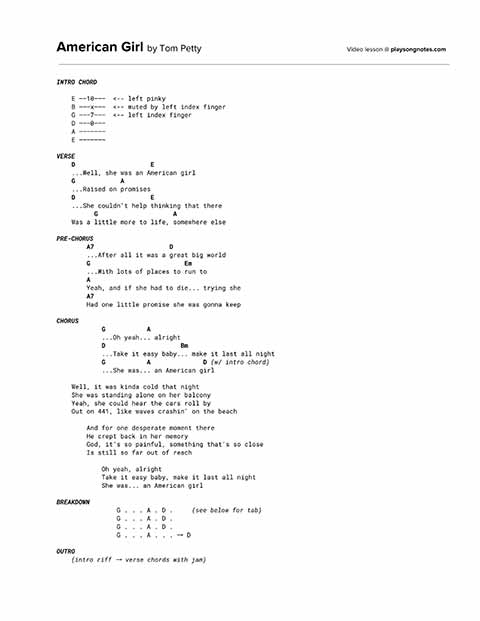
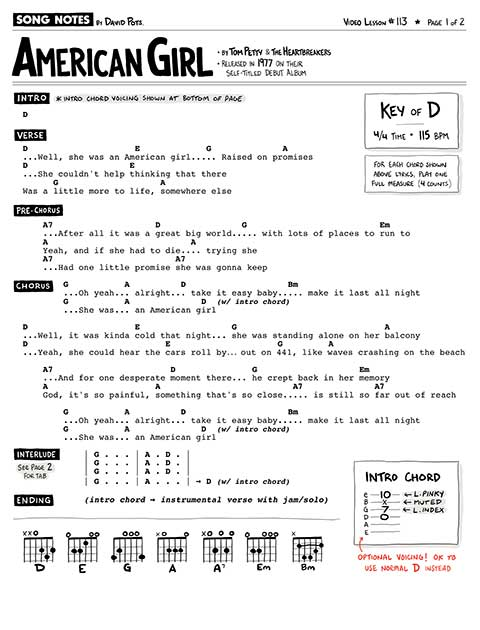
Adds American Girl mn url

Changed region(s): [[0.0, 0.0, 0.9688, 0.9179], [0.7188, 0.7037, 0.9688, 0.9179]]

diff --git a/_lessons/113 [Tom Petty] American Girl.md b/_lessons/113 [Tom Petty] American Girl.md
@@ -12,8 +12,9 @@ tags: [Full Song Lesson, 1970s, Classic Rock, Key of D]
 slug: "113"
 redirect_from:
   - /songs/tom-petty-american-girl/
-pdf_version: copyright
+pdf_version: musicnotes
 pdf_numpages: 2
+musicnotes_url: https://www.musicnotes.com/l/KK2Mm
 patreon_lesson_available: true
 patreon_lesson_url: https://www.patreon.com/posts/25807082
 ---
@@ -26,120 +27,4 @@ patreon_lesson_url: https://www.patreon.com/posts/25807082
 
 ## Editor's notes
 
-In this lesson I'll teach you how to play American Girl by Tom Petty and the Heartbreakers, from their debut 1976 self-titled album. This will be an acoustic lesson, showing you how to emulate the sound of the full-band song with a solo acoustic guitar. I'll teach you how to imitate the intro sound, as well as chords & strumming needed for the verse and chorus sections. There's also a breakdown riff I'll teach which makes for a fun break before picking things back up for the ending. Best of luck, and enjoy!
-
-## Lyrics w/ chords
-
-    INTRO CHORD
-
-        E ––10–––  <-- left pinky
-        B –––x–––  <-- muted by left index finger
-        G –––7–––  <-- left index finger
-        D –––0–––
-        A –––––––
-        E –––––––
-
-    VERSE
-        D                    E
-        ...Well, she was an American girl
-        G            A
-        ...Raised on promises
-        D                    E
-        ...She couldn't help thinking that there
-              G                    A
-        Was a little more to life, somewhere else
-
-    PRE-CHORUS
-            A7                    D               
-            ...After all it was a great big world
-            G                         Em
-            ...With lots of places to run to
-            A
-            Yeah, and if she had to die... trying she
-            A7
-            Had one little promise she was gonna keep
-
-    CHORUS
-                G           A
-                ...Oh yeah... alright
-                D                    Bm
-                ...Take it easy baby... make it last all night
-                G           A              D (w/ intro chord)
-                ...She was... an American girl
-
-        Well, it was kinda cold that night
-        She was standing alone on her balcony
-        Yeah, she could hear the cars roll by
-        Out on 441, like waves crashin' on the beach
-
-            And for one desperate moment there
-            He crept back in her memory
-            God, it's so painful, something that's so close
-            Is still so far out of reach
-
-                Oh yeah, alright
-                Take it easy baby, make it last all night
-                She was... an American girl
-
-    BREAKDOWN
-                    G . . . A . D .     (see below for tab)
-                    G . . . A . D .
-                    G . . . A . D .
-                    G . . . A . . . → D
-
-    OUTRO
-        (intro riff → verse chords with jam)
-
-## Intro chord
-
-    E ––10–––  <-- left pinky
-    B –––x–––  <-- muted by left index finger
-    G –––7–––  <-- left index finger
-    D –––0–––
-    A –––––––
-    E –––––––
-
-## Chords used in verse, pre-chorus, and chorus
-
-    E ––––2––––0––––3––––0––––0––––2–––––
-    B ––––3––––0––––0––––2––––0––––3–––––
-    G ––––2––––1––––0––––2––––0––––4–––––
-    D ––––0––––2––––0––––2––––2––––4–––––
-    A –––––––––2––––2––––0––––2––––2–––––
-    E –––––––––0––––3–––––––––0––––––––––
-          D    E    G    A    Em   Bm
-
-## Walk-up and walk-down riff
-
-    "After all it was a great big world, with lots of places..."
-
-    e –––––2––2–2–2––––2––––––––3––3–3–3–––––3–3––––3–3––––0–––
-    B –––––3––3–3–3––––3––––––––3––3–3–3–––––3–3––––3–3––––0–––
-    G –––––2––2–2–2––––2––––––––0––0–0–0–––––0–0––––0–0––––0–––
-    D –––0–––––––––––0––––––––––0––0–0–0–––––0–0––––0–0––––2–––
-    A ––––––––––––––––––––––––––2––2–2–2–––––2–2––––x–x––––2–––
-    E ––––––––––––––––––––0–2–3––––––––––––3––––––2––––––0–––––
-         D                    G                  G/F#    Em
-
-
-## Interlude riff
-
-    e –––––––––––––––––––––––––––––––––––––––––––––––––––––––
-    B –––––––––––––––––––––––––––––––––––––––––––––––––––––––
-    G –––––––––––––––––––––––––––––––––––––––––––––––5h6h7–––
-    D –––––––––––––––––––x–x–––––––––––––––––––––––––––––––––   x3
-    A –––––––––––––––––––x–x–––––––––––––––––––––5–––––––––––
-    E –––3–––3–––3–––––––x–x–––––3h4h5–––5–––5–––––––––––––––
-         G                           A           D
-
-    e –––––––––––––––––––––––––––––––––––––––––––––––––––––––
-    B –––––––––––––––––––––––––––––––––––––––––––––––––––––––
-    G –––––––––––––––––––––––––––––––––––––––––––––––––––––––
-    D –––––––––––––––––––x–x–––––––––––––––––––––x–x–––––––––   x1
-    A –––––––––––––––––––x–x–––––––––––––––––––––x–x–––––––––
-    E –––3–––3–––3–––––––x–x–––––3h4h5–––5–––5–––x–x–––––––––
-         G                           A       
-
-## Good luck!
-
-Let me know if you have questions. I hope this was helpful.
+In this lesson I'll teach you how to play American Girl by Tom Petty and the Heartbreakers, from their debut 1977 self-titled album. This will be an acoustic lesson, showing you how to emulate the sound of the full-band song with a solo acoustic guitar. I'll teach you how to imitate the intro sound, as well as chords & strumming needed for the verse and chorus sections. There's also a breakdown riff I'll teach which makes for a fun break before picking things back up for the ending. Best of luck, and enjoy!

diff --git a/backlog.md b/backlog.md
@@ -18,6 +18,7 @@ permalink: /backlog/
 
 Here's the songs I've most recently re-listed for purchase at Musicnotes.com. Each arrangement is officially licensed & legal, and also uses my latest sheet music formatting.
 
+- May 9  - [American Girl](https://playsongnotes.com/lessons/113/)
 - May 2  - [Creep](https://playsongnotes.com/lessons/153/)
 - Apr 26 - [LA Freeway](https://playsongnotes.com/lessons/101/)
 - Apr 23 - [Maybe It's Time](https://playsongnotes.com/lessons/188/)
@@ -64,13 +65,13 @@ Here's the songs I've most recently re-listed for purchase at Musicnotes.com. Ea
     Stairway to Heaven          XXXXXXXXXXXXXXXXXXXXXXXXXXXXXXXXXXXXXXXXX
 
     Always Remember Us This Way XXXXXXXXXXXX
-    American Girl               XXXXXXXXX
-    California Dreaming         XXXXXXXXX
-    Game of Thrones (theme)     XXXXXXXXXX
+    California Dreaming         XXXXXXXXXXX
+    Game of Thrones (theme)     XXXXXXXXXXX
     Let Him Roll                XXXXXXXXX
     My Fav. Picture of You      XXXXXXXX
     My Old Kentucky Home        XXXXXXXX
-    Total Eclipse of the Heart  XXXXXXX
+    Remember Me •               XXXXXXX
+    Total Eclipse of the Heart  XXXXXXXX
     We Are the Champions •      XXXXXXX
     When the Man Comes Around   XXXXXXX
 
@@ -80,11 +81,10 @@ Here's the songs I've most recently re-listed for purchase at Musicnotes.com. Ea
     All Apologies               XXXX
     Let It Go                   XXX
     Light On •                  XXX
-    Lookin' Out My Backdoor     XXXX
-    Remember Me •               XXXXX
+    Lookin' Out My Backdoor     XXXXX
     Running Down a Dream        XXXXXX
     Say It Ain't So             XXXX
-    Surf Rider                  XXXXX
+    Surf Rider                  XXXXXX
     Where Rainbows Never Die    XXXX
     Year Clayton Delaney Died   XXX
 
